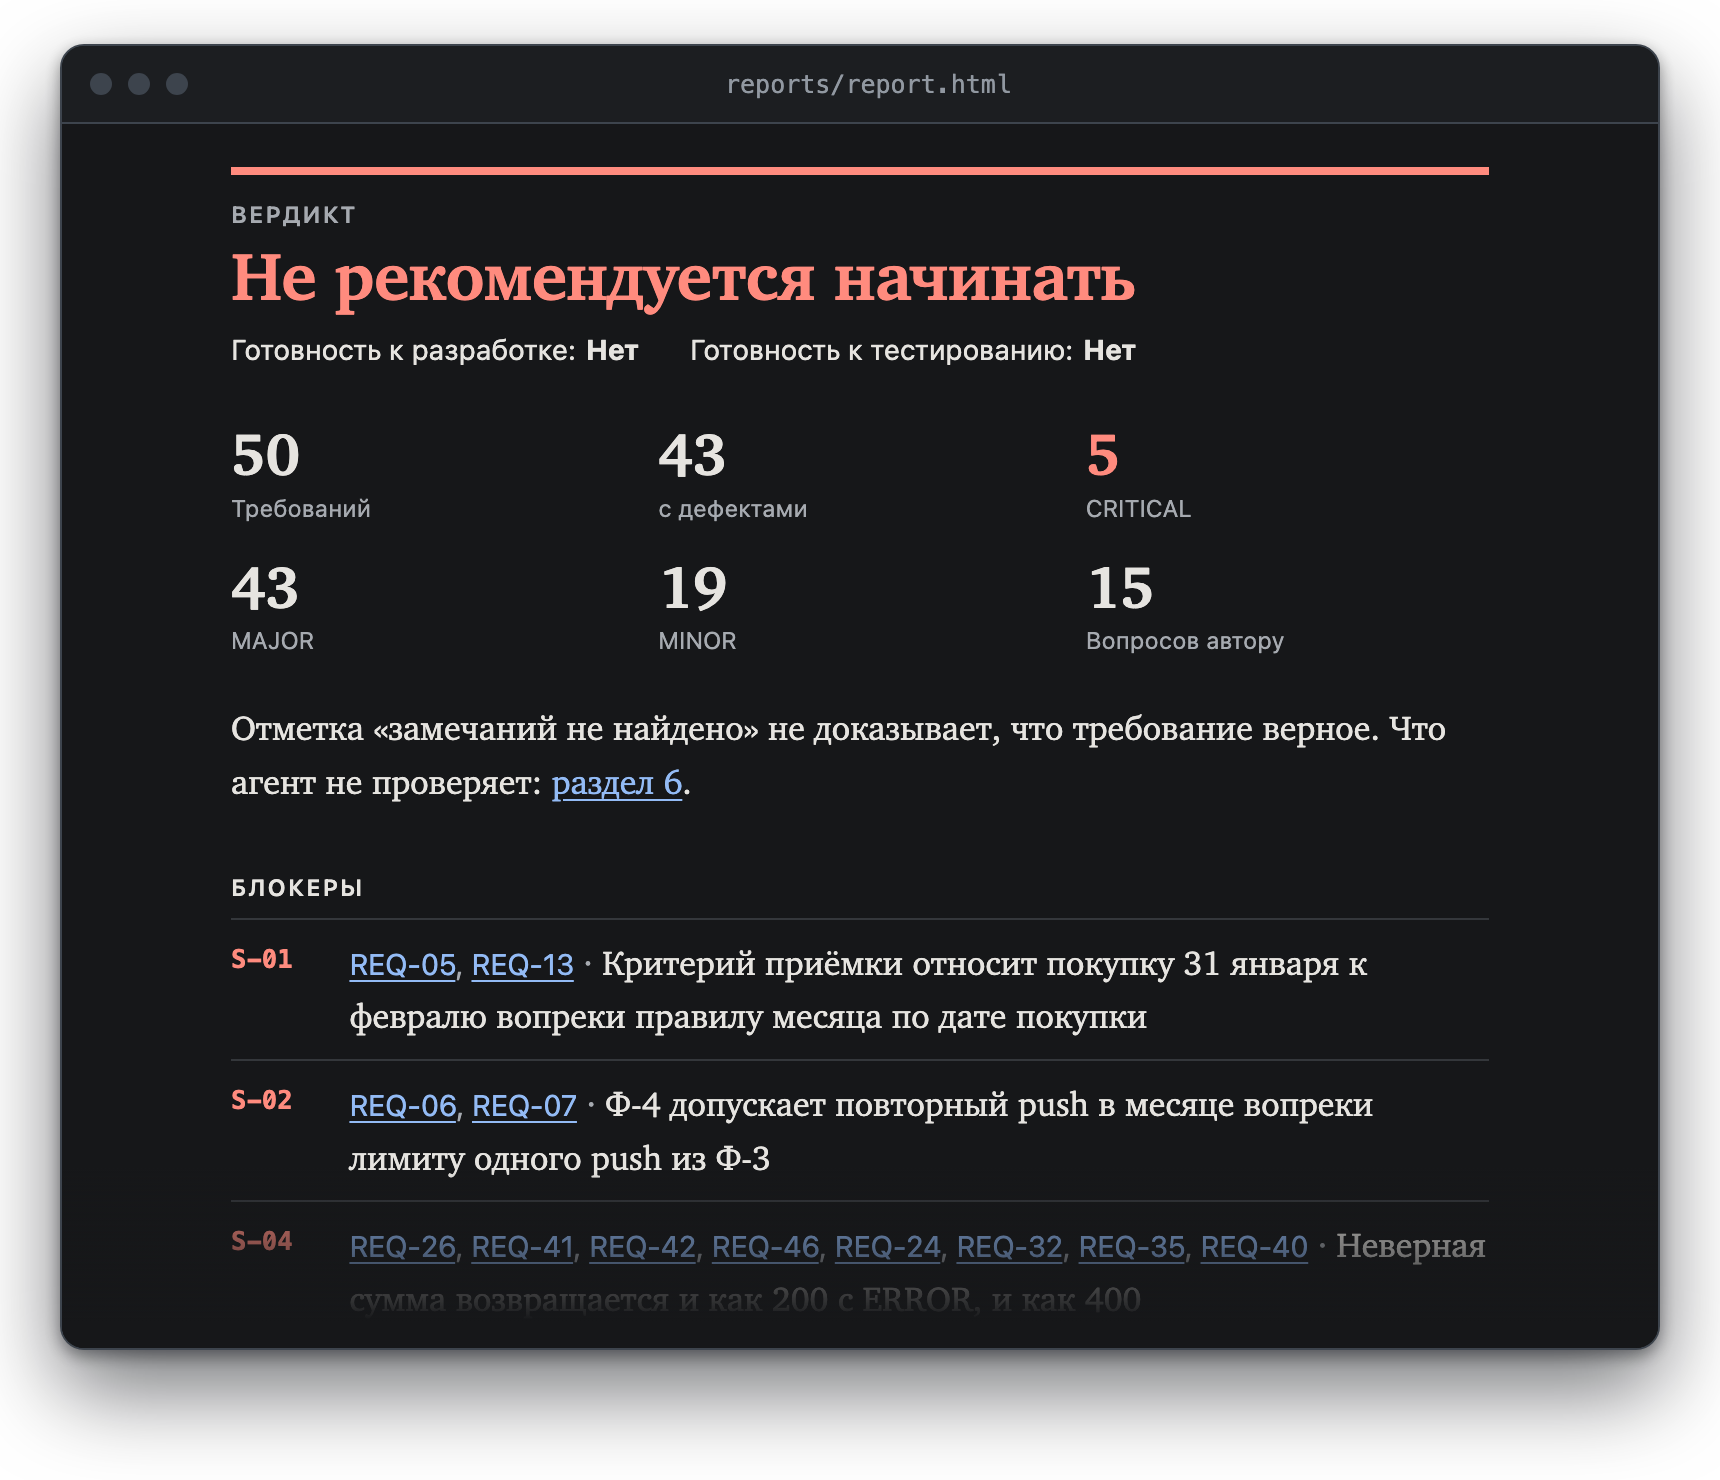
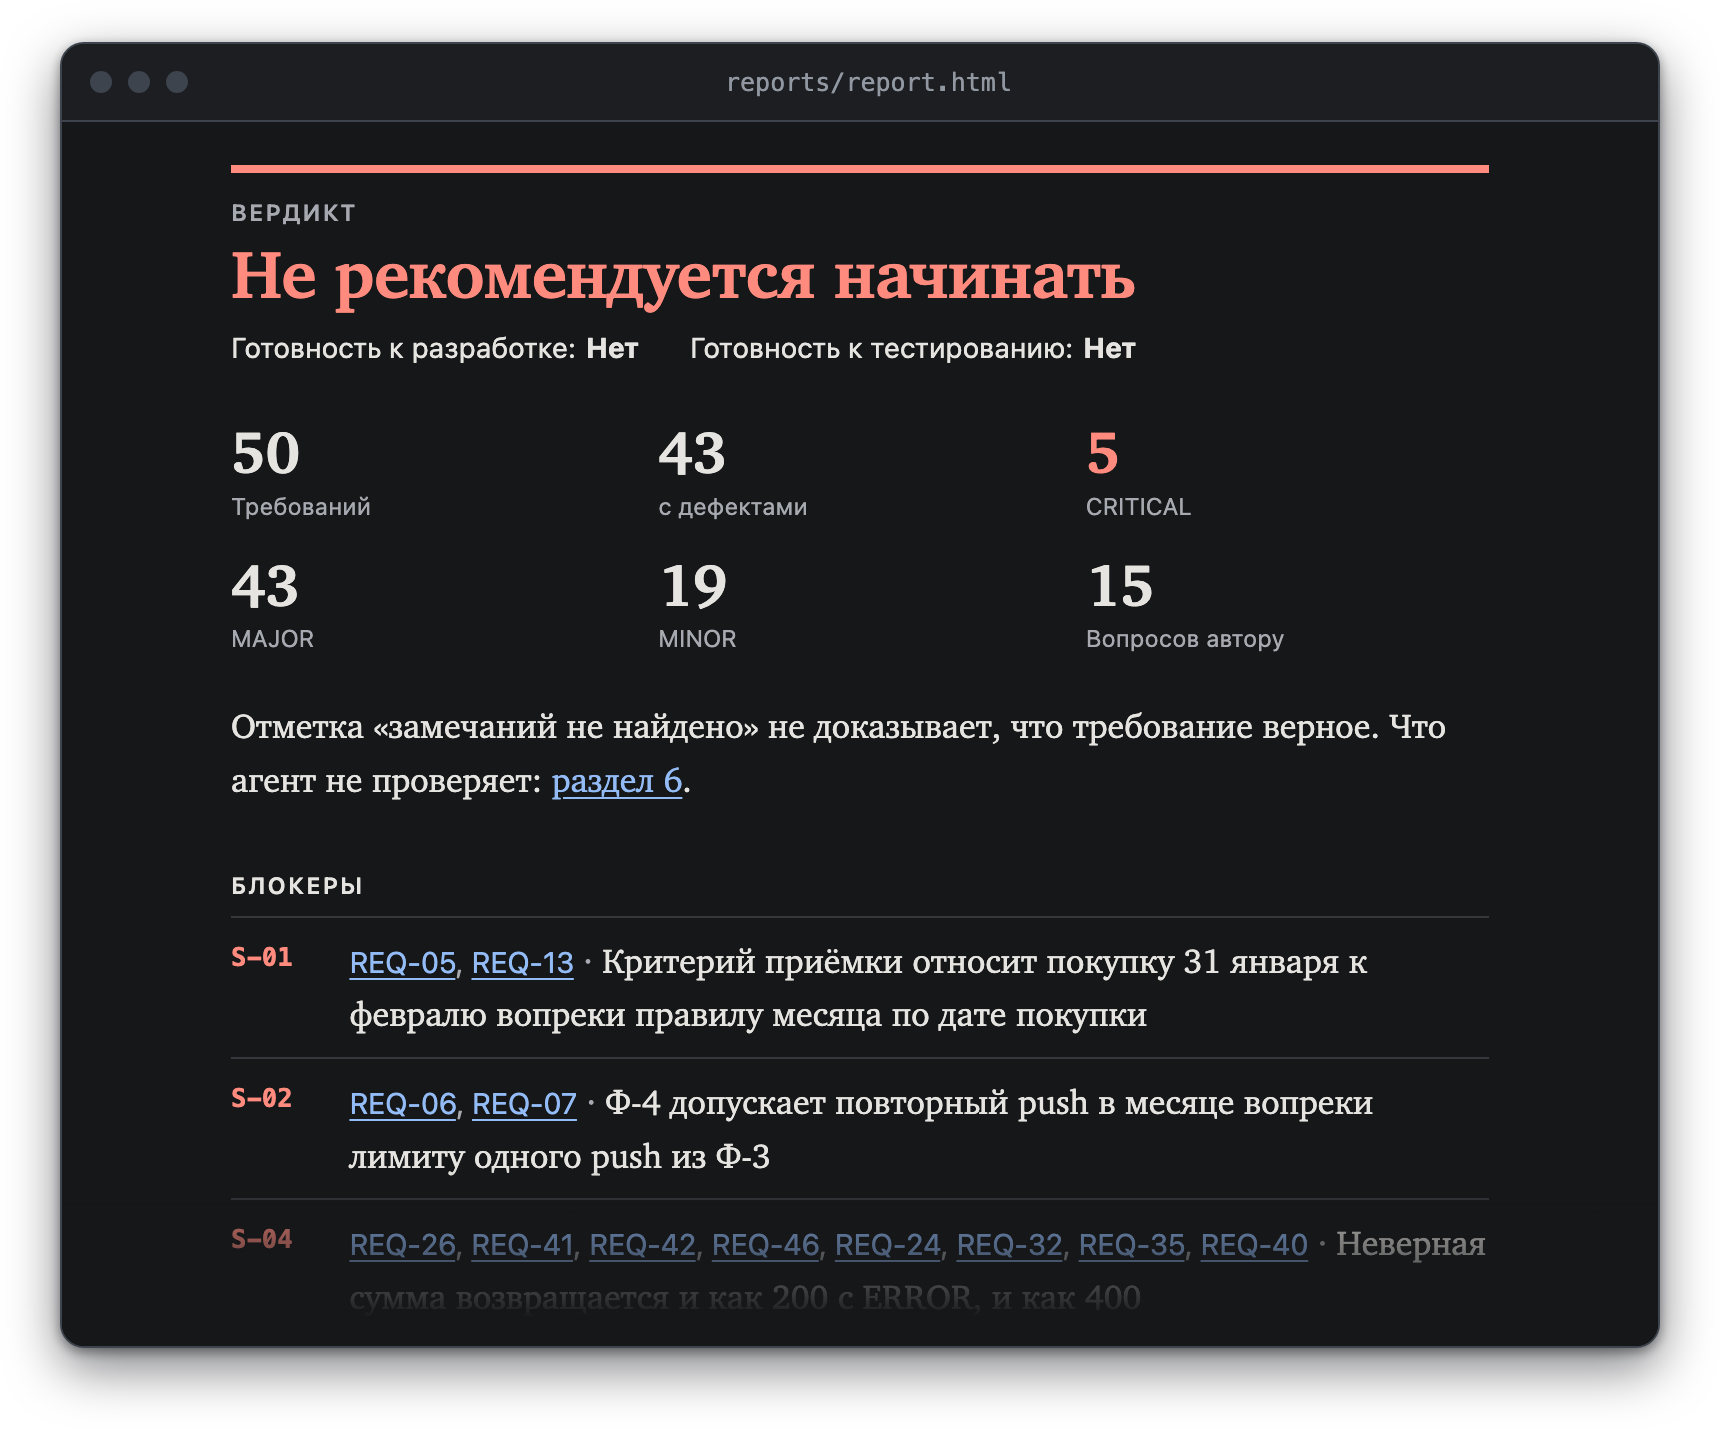
README: значки в одну строку, мягкая тень у снимка отчёта

diff --git a/README.md b/README.md
@@ -7,9 +7,7 @@
 
 <h3>Находит в ТЗ противоречия и пробелы.<br>Задаёт автору вопросы с вариантами ответа.</h3>
 
-<a href="https://github.com/gascoigne07/reqask/actions/workflows/tests.yml"><img alt="tests" src="https://github.com/gascoigne07/reqask/actions/workflows/tests.yml/badge.svg"></a>
-<img alt="Python 3.10+" src="https://img.shields.io/badge/python-3.10%2B-blue">
-<a href="LICENSE"><img alt="License: MIT" src="https://img.shields.io/badge/license-MIT-green"></a>
+<p><a href="https://github.com/gascoigne07/reqask/actions/workflows/tests.yml"><img alt="tests" src="https://github.com/gascoigne07/reqask/actions/workflows/tests.yml/badge.svg"></a> <img alt="Python 3.10+" src="https://img.shields.io/badge/python-3.10%2B-blue"> <a href="LICENSE"><img alt="License: MIT" src="https://img.shields.io/badge/license-MIT-green"></a></p>
 
 <p>
   <a href="reports/report.md">Отчёт</a> ·
